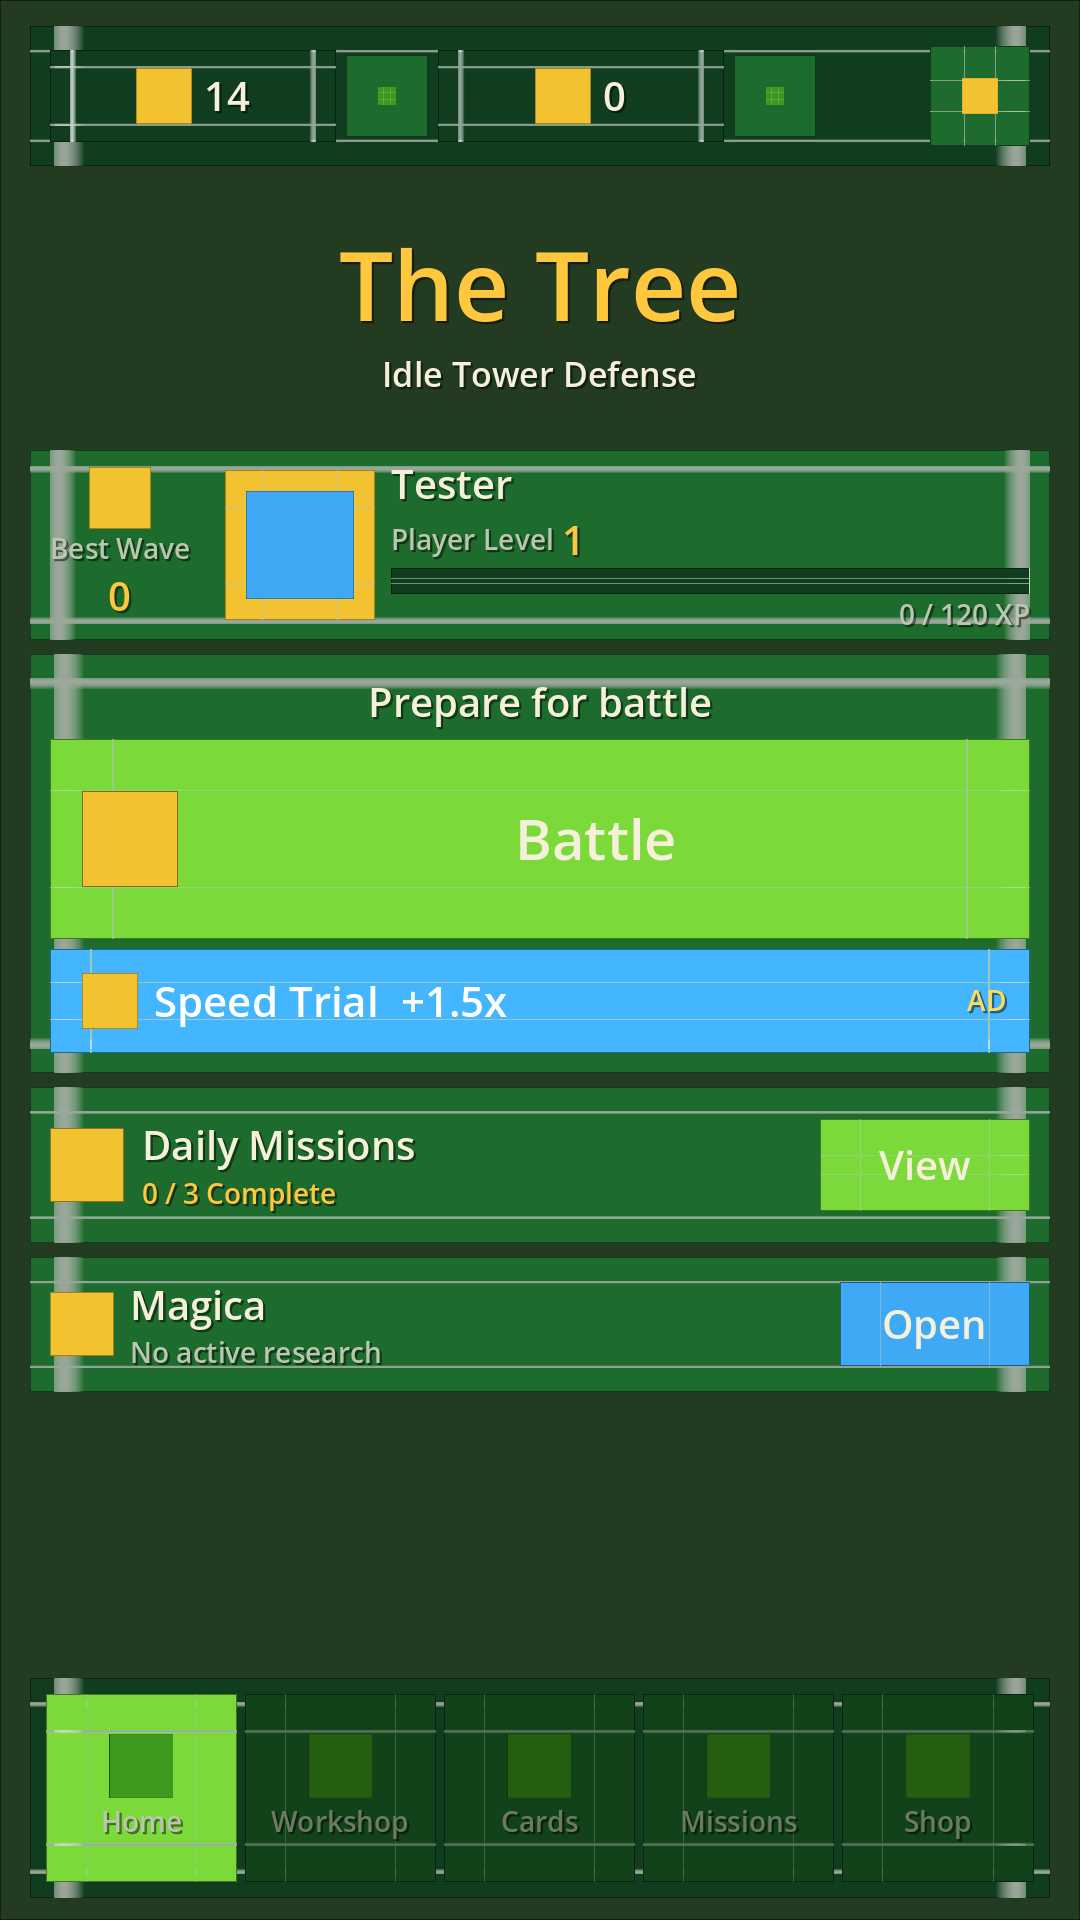
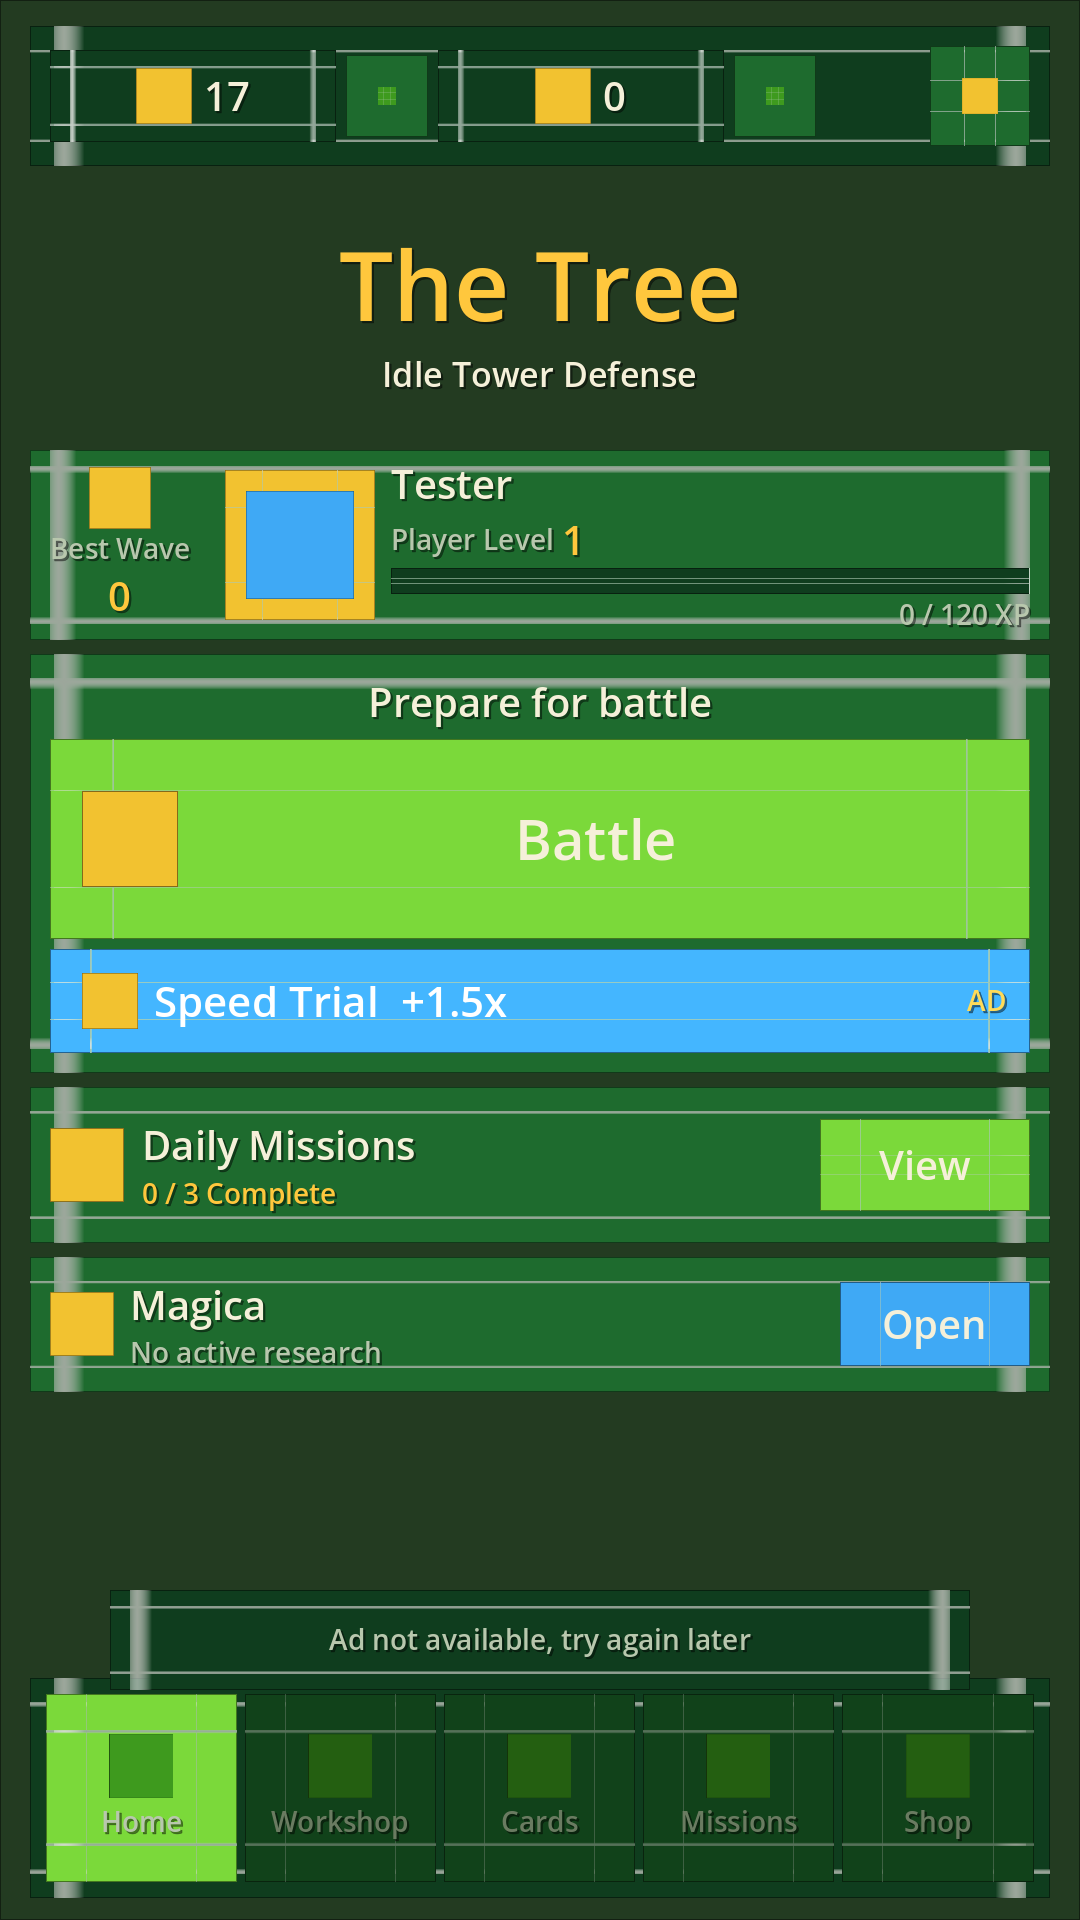
fix(m6): harden Android back and record the M6 verification

diff --git a/docs/PROGRESS.md b/docs/PROGRESS.md
@@ -2,14 +2,15 @@
 
 Single source of truth for "where are we". Updated at the end of every session.
 
-**Spec:** 1.0 (`docs/AI_BUILD_PROMPT.md`) · **Milestone:** M5 done → M6 next
+**Spec:** 1.0 (`docs/AI_BUILD_PROMPT.md`) · **Milestone:** M6 done (tagged) → M7 next
 **Branch:** `main` · **Godot:** `C:\Tools\godot-4.7.2\Godot_v4.7.2-stable_win64.exe` (4.7.2)
-**Verification (M5b, green):** check_project exit 0 · tests **51/51** ·
-smoke **25/25 scenes** (exit 0, no ERROR lines) · battle_smoke PASS ·
-lint_locale **607 keys, 0 missing, 0 unused** · previews `m5b_menu_en.png`,
-`m5b_menu_uk.png`, `m5b_menu_pseudo.png`, `m5b_shop.png`,
-`m5b_leaderboard.png`, `m5b_profile.png`
-**Toolchain gaps (M6):** Android SDK/adb; LDPlayer `E:\LDPlayer\LDPlayer14`; SDK `C:\Android\Sdk`
+**Verification (M6, green except device ad fill):** check_project exit 0 · tests
+**60/60** · smoke **25/25 scenes** · battle_smoke PASS · ads_flow_smoke PASS ·
+lint_locale **640 keys, 0 missing, 0 unused** · debug APK **179 MB**, installed
+and launched on LDPlayer · previews `m6_device.png`, `m6_shop_device.png`,
+`m6_ads_failure.png`
+**Toolchain:** Android SDK `C:\Android\Sdk`, JDK 17 `C:\Tools\jdk-17`, LDPlayer
+`E:\LDPlayer\LDPlayer14`, adb `127.0.0.1:5555` (see `docs/ANDROID.md`)
 
 ## Milestones
 
@@ -21,7 +22,7 @@ lint_locale **607 keys, 0 missing, 0 unused** · previews `m5b_menu_en.png`,
 | M3 | Run economy, upgrades, speed | done (M3.1 balance pass) | `v0.4.1-m3` |
 | M4 | Meta progression and persistence | done | `v0.5.0-m4` |
 | M5 | Shell, UX, localization, audio | done | `v0.6.0-m5` |
-| M6 | Android, ads, billing, telemetry | not started | `v0.7.0-m6` |
+| M6 | Android, ads, billing, telemetry | done, tagged (ad fill blocked by env network) | `v0.7.0-m6` |
 | M7 | Backend (FastAPI + Neon), live features | not started | `v0.8.0-m7` |
 | M8 | Balance, polish, release readiness | not started | `v1.0.0-m8` |
 
@@ -101,6 +102,52 @@ lint_locale **607 keys, 0 missing, 0 unused** · previews `m5b_menu_en.png`,
   `m5b_menu_pseudo.png`, `m5b_shop.png`, `m5b_leaderboard.png`,
   `m5b_profile.png`.
 
+## M6 delivered (tagged `v0.7.0-m6`)
+
+- **Android export**: `export_presets.cfg` debug preset `Android` (package
+  `com.endertainment.thetree`, portrait + immersive, min SDK 24, target 35,
+  x86_64 + arm64, `use_gradle_build=true`). `tools/export_android.ps1` sets
+  `JAVA_HOME`/`ANDROID_HOME`, generates the gitignored debug keystore, installs
+  the Android build template and produces `build/the-tree.apk` (**~179 MB**
+  debug). `tools/install_ldplayer.ps1` connects adb, installs, launches and
+  optionally screenshots. `docs/ANDROID.md` documents the exact commands.
+- **Ads**: Poing Studios AdMob **5.1.0** + `android-template-v4.7.2` (verified on
+  Godot 4.7.2; `[AdsService] GMA initialized (plugin v5.1.0, platform 1.4.0)` on
+  device). `AndroidAdsAdapter` handles async GMA init, UMP consent, rewarded and
+  interstitial loads; the desktop stub plays a visible `DebugAdOverlay`.
+  `AdsService` implements all §7.2 placements, per-run/day caps, the
+  every-3rd-run/120 s/wave-5 interstitial rule, one-reward-per-view
+  (`AdRewardGuard`), consent gate, failure reasons, `No Ads` interstitial
+  disablement, and persisted caps in the save's `ads` section. Speed Trial now
+  grants a real 24 h boost (or the next locked speed); the battle pause menu has
+  Free Cash and Tree Blessing offers; Magica has the 30-minute research speed-up.
+- **IAP**: godot-google-play-billing **3.3.0**; seven §7.3 products moved to
+  `config/shop.tres`; `IapService` handles store prices, purchase/restore,
+  pending/cancelled/already-owned/network reasons, purchase-token idempotency,
+  consume/acknowledge and `RewardBundle` grants. Shop buttons enable only when
+  `is_available()`; otherwise "Store unavailable". `_verify_receipt()` is the
+  documented M7 hook.
+- **Consent + telemetry**: `SettingsService.consent_granted` (false in release,
+  true in editor/debug) gates every ad; UMP is tried first and a local
+  `ConsentDialog` is the fallback. `AnalyticsService` emits the §8.6 events with
+  debug prints and optional batched HTTP (endpoint empty + disabled by default;
+  only the random player UUID is attached).
+- **Device polish**: safe-area margins via `SceneRouter`, haptics on boss
+  spawn/leaks/ad rewards, app pause/resume freezes the battle clock (Audio and
+  Save services keep their own hooks), Android back already routed through
+  `SceneRouter`, and `docs/RELEASE.md` + `docs/QA_CHECKLIST.md` added.
+- **Tests**: **+9 (60 total)** — ad caps + daily rollover, interstitial cadence,
+  reward-once guard, IAP catalogue resource, monetization config/test IDs,
+  billing reason mapping, speed-boost persistence, M6 locale keys, analytics
+  privacy sanitization. New `tools/ads_flow_smoke.gd` proves the real
+  AdsService→stub flow grants once, blocks the second daily request and fails
+  gracefully when the SDK is disabled.
+- **Previews**: `docs/preview/m6_device.png` (main menu on LDPlayer),
+  `m6_shop_device.png` (Store unavailable state), `m6_ads_failure.png`,
+  `m6_pause_ads.png` (battle pause with rewarded offers).
+- **Android back**: `config/quit_on_go_back=false` + a SceneRouter debounce;
+  verified Shop → menu, menu → exit, battle → pause, pause → battle on LDPlayer.
+
 ## Earlier milestones (summary)
 
 - **M4**: save v2 (checksum/atomic/.bak/migration), WalletService, Level/Unlock,
@@ -121,24 +168,35 @@ lint_locale **607 keys, 0 missing, 0 unused** · previews `m5b_menu_en.png`,
   stay authored (HUD numbers must not grow).
 - `battle_controller.gd`/`battle_hud.gd` still exceed the 400-line guideline.
 - 532 draw calls > M2 target 120 (placeholder art; atlas pass moved to M8).
-- **Monetization is stubbed (M6):** `IapService.is_available()` is false and all
-  buy buttons show "Store unavailable"; `AdsService.show_rewarded()` reports
-  `stub_not_implemented` and the Speed Trial shows the M6 toast. The shop's
-  debug-only simulate button grants through `RewardBundle` on debug builds only.
+- **Ads/Billing are wired but cannot complete a real transaction in this
+  environment:** Google ad hosts (`googleads.g.doubleclick.net`,
+  `pagead2.googlesyndication.com`) are unreachable from both the host and the
+  emulator, so test rewarded ads fail with `ERR_ADDRESS_UNREACHABLE` (handled as
+  `ad_unavailable`, no crash). Play Billing reports "In-app billing API version 3
+  is not supported on this device"; a real purchase needs a Play Console listing
+  and licence testers (M7/M8). All cap/one-reward/state logic is unit-tested and
+  the debug overlay flow is verified headlessly.
+- AdMob native AARs live in `addons/admob/android/bin`, which the addon's
+  `.gitignore` excludes; `docs/ANDROID.md` documents the pinned install step. The
+  Android build template (`android/`) is also gitignored.
+- Safe-area insets apply to every Control screen's `SafeArea` MarginContainer.
+  The battle HUD is a CanvasLayer without that container, so a notch-aware HUD
+  pass is deferred to M8 (no cutout on the LDPlayer test image).
 - **Leaderboard is local (M5b/M7):** `LeaderboardService` always serves the
   deterministic `LocalBackendStub` cohort and reports `is_offline() == true`.
   M7 replaces one `_load()` call with the HTTP client; the UI is unchanged.
 - Capture helper now finishes `App.init_services()` before applying the capture
   language/pseudo-locale and only stages the preview afterwards (ADR-033).
 
-## Next tasks — M6 (Android, ads, billing, telemetry)
+## Next tasks — M7 (Backend, live features)
 
-1. **Android toolchain + export**: install/verify SDK/adb, create the export
-   preset, build the first APK/AAB on LDPlayer, and wire the CI check
-   (`Android SDK/adb; LDPlayer E:\LDPlayer\LDPlayer14; SDK C:\Android\Sdk`).
-2. **AdsService adapter**: AdMob plugin pinned in `docs/DECISIONS.md`, rewarded
-   placements from §7.2 with caps, the debug ad overlay/countdown, consent flag,
-   and replace the Speed Trial stub with the real `speed_unlock_24h` flow.
-3. **IapService adapter**: Google Play Billing query/purchase/restore with
-   receipt validation hook, enable the shop buttons/prices, and handle pending,
-   cancelled, owned and network-error states end to end.
+1. **ApiClient + backend**: stand up the FastAPI + Neon skeleton from §8.3,
+   wire `ApiClient` (auth, retries, offline queue) and point
+   `LeaderboardService._load()` at it; keep `LocalBackendStub` for editor/offline.
+2. **Server-side commerce**: replace `IapService._verify_receipt()` with Google
+   Play receipt validation, add AdMob SSV callback validation for
+   `rewarded_earned` (server confirms a placement before the client grants), and
+   move `AnalyticsService` to the real `POST /events` endpoint.
+3. **Live-ops**: missions/tournament refresh from the backend, remote config for
+   `config/monetization.tres` ad IDs and caps, and an admin-less migration path
+   for save v3 if the profile gains server IDs.

diff --git a/docs/DECISIONS.md b/docs/DECISIONS.md
@@ -671,3 +671,97 @@ scene's `stage_preview()` only after the scene has been in the tree for 0.2 s.
 
 **Consequences:** captures reflect the requested locale and staged state. The
 helper remains tooling-only and never writes settings back to `user://`.
+
+## ADR-034 — AdMob plugin pinned to Poing Studios 5.1.0 (M6)
+
+**Status:** accepted (M6)
+
+**Context:** M6 needs real rewarded/interstitial ads on Android while the editor
+keeps a visible fake-ad flow. Candidates were the official plugin route
+(`poing-studios/godot-admob-plugin`) and hand-rolled JNI, which the brief forbids.
+
+**Decision:** install **Poing Studios AdMob 5.1.0** (`addons/admob`, MIT) with
+`android-template-v4.7.2.zip` native AARs and enable it in
+`[editor_plugins]`. The plugin targets Godot 4.5+ and ships a 4.7.2 template; it
+was verified with a headless import, a full Gradle APK export and a launch on
+LDPlayer (GMA initialized, rewarded preload reached). `AdsService` talks to
+`AndroidAdsAdapter`; `OS.has_feature("android")` appears only inside that adapter
+and its factory. The AARs live in `addons/admob/android/bin`, which the addon's
+own `.gitignore` excludes; `docs/ANDROID.md` documents the one-time install.
+
+**Consequences:** plugin swaps touch the adapter only. AdMob's Android manifest
+merge requires `gradle/use_gradle_build=true`, so M6 exports are Gradle builds.
+Without Play Services/network the SDK stays unavailable and rewarded requests
+fail with a toast instead of blocking boot. Production ad unit IDs are not in the
+repository — only Google's test IDs in `config/monetization.tres`.
+
+## ADR-035 — Play Billing 3.3.0 with a documented receipt hook (M6)
+
+**Status:** accepted (M6)
+
+**Context:** IAP must expose the §7.3 catalogue, handle pending/cancelled/
+already-owned states and degrade to "Store unavailable" on desktop and on a
+device without a Play listing.
+
+**Decision:** install **godot-google-play-billing 3.3.0** (`addons/
+GodotGooglePlayBilling`, MIT), enabled as an editor plugin. `IapService` owns the
+product catalogue (`config/shop.tres`), purchase-token idempotency, ownership and
+`RewardBundle` grants; `AndroidBillingAdapter` only translates BillingClient
+signals. `_verify_receipt()` is an explicit no-op hook: **M7 must replace it with
+server-side Google Play receipt validation** before production. Billing is never
+initialized during boot; a missing Play Store leaves the shop in its disabled
+state.
+
+**Consequences:** local debug builds cannot complete a purchase (Play requires an
+uploaded listing), which is documented in `PROGRESS.md`; the debug simulate
+button still exercises the same grant path. A plugin swap is one adapter file.
+
+## ADR-036 — GL compatibility override on Android (M6)
+
+**Status:** accepted (M6)
+
+**Context:** the LDPlayer image's Vulkan driver fails to present
+(`VkResult error 5`), producing a black screen even though the game booted. The
+project otherwise uses the Mobile (Vulkan) renderer.
+
+**Decision:** set `rendering/renderer/rendering_method.mobile="gl_compatibility"`.
+2D content is fully supported by the Compatibility renderer and it is the safest
+choice for emulators/older devices. The desktop renderer is unchanged.
+
+**Consequences:** real devices use GLES3 instead of Vulkan; the override can be
+removed when the M8 device matrix confirms Vulkan stability. Frame-rate targets
+still hold for the M6 scene load.
+
+## ADR-037 — Consent and analytics are local-first (M6)
+
+**Status:** accepted (M6)
+
+**Context:** UMP must gate the first ad, but the editor needs deterministic flows
+and analytics must not leak personal data or stall boot.
+
+**Decision:** `SettingsService.consent_granted` defaults to
+`OS.is_debug_build()` (true in editor/debug, false in release). `AdsService`
+tries UMP first and falls back to a local `ConsentDialog` when the SDK is
+unavailable; no ad request is made before consent. `AnalyticsService` prints in
+debug builds and only batches to HTTP when `config/monetization.tres` provides an
+endpoint; events are dropped on failure (no unbounded queue) and only the random
+player UUID is attached.
+
+**Consequences:** release builds start with ads blocked until the consent step is
+answered. M7 can point analytics at the backend by editing one config field.
+
+## ADR-038 — Placement caps are a pure, tested policy object (M6)
+
+**Status:** accepted (M6)
+
+**Context:** per-run/day caps, the every-3rd-run interstitial and one-reward-only
+behaviour are the easiest monetization rules to get wrong, and they must be
+tested headlessly without an ad SDK.
+
+**Decision:** `AdCaps` owns period accounting and interstitial cadence,
+`AdRewardGuard` owns one-reward-per-view, and both are plain `RefCounted`
+classes. `AdsService` persists `AdCaps.to_dict()` in the save's `ads` section and
+delegates every decision to these objects.
+
+**Consequences:** `tests/run_tests.gd` covers caps, rollover, cadence, duplicate
+earned callbacks and the ad-limit reason without touching native code.

diff --git a/CHANGELOG.md b/CHANGELOG.md
@@ -3,6 +3,57 @@
 All notable changes are recorded per milestone. The project follows semantic
 versioning for tags; unreleased work stays under `[Unreleased]`.
 
+## [0.7.0-m6] — 2026-10-31 — M6 Android, ads, billing, telemetry
+
+### Added
+
+- **Android export**: `export_presets.cfg` (debug preset `Android`, package
+  `com.endertainment.thetree`, portrait/immersive, min SDK 24, target 35,
+  x86_64 + arm64), `tools/export_android.ps1` (JDK 17 + SDK env, generated debug
+  keystore, build-template install, Gradle export to `build/the-tree.apk`) and
+  `tools/install_ldplayer.ps1` (adb connect/install/launch/screenshot).
+  `docs/ANDROID.md` lists the verified toolchain and exact commands.
+- **Ads**: Poing Studios AdMob **5.1.0** (`addons/admob`, verified on Godot
+  4.7.2), `AndroidAdsAdapter` with GMA initialization, UMP consent, rewarded and
+  interstitial loads, plus a desktop `DebugAdOverlay` fake ad. `AdsService` owns
+  placements from §7.2 (`run_double_coins`, `free_cash`, `tree_blessing`,
+  `speed_unlock_24h`, `research_speedup`, `run_end_interstitial`), per-run/day
+  caps, the every-3rd-run/120 s/wave-5 interstitial rule, one reward per view,
+  the consent gate, failure reasons and the "No Ads disables interstitials" rule.
+  Speed Trial now grants a real 24 h 1.5x boost (or the next locked speed), and
+  the battle pause menu offers Free Cash and Tree Blessing.
+- **IAP**: godot-google-play-billing **3.3.0** (`addons/GodotGooglePlayBilling`),
+  `IapService` with the seven §7.3 products in `config/shop.tres`, store prices,
+  purchase/restore/pending/cancelled/already-owned states, purchase-token
+  idempotency, `RewardBundle` grants, consume/acknowledge and a documented M7
+  receipt-verification hook. Shop buttons enable only when `is_available()`.
+- **Telemetry**: `AnalyticsService` with the §8.6 events (`app_open`, `run_start`,
+  `wave_cleared`, `run_end`, `purchase`, `ad_shown`, `ad_rewarded`, `screen_view`,
+  `error`), debug prints and optional batched HTTP disabled by default.
+- **Device polish**: safe-area insets applied by `SceneRouter`, haptics on boss
+  spawn/leaks/ad rewards respecting the settings toggle, app pause/resume
+  freezing the battle clock while audio and save services handle their own hooks,
+  and `docs/RELEASE.md` + `docs/QA_CHECKLIST.md` skeletons.
+- **Tests**: **+9 (60 total)** — ad placement caps and daily rollover,
+  interstitial cadence, reward-once guard, IAP catalogue resource, monetization
+  config (test IDs/caps), billing reason mapping, speed-boost persistence,
+  M6 locale keys, analytics privacy sanitization.
+
+### Changed
+
+- `SettingsService` gained persisted `consent_granted` (false in release, true in
+  editor/debug) and a debug `fake_monetization` switch.
+- Android uses the Compatibility (GLES3) renderer (`rendering_method.mobile`).
+- `locale_lint.gd` treats `shop.purchase_*` as runtime-assembled keys.
+
+### Fixed
+
+- AdMob rewarded loads now wait for the asynchronous GMA initialization callback
+  (loading earlier crashed the native SDK).
+- Android back no longer quits while leaving Shop/entering battle: `Quit On Go
+  Back` is disabled and `SceneRouter` debounces the notification/key pair; it
+  only quits from the main menu and opens the battle pause menu otherwise.
+
 ## [0.6.0-m5] — 2026-10-31 — M5 shell, UX, localization, audio
 
 ### Added

diff --git a/docs/QA_CHECKLIST.md b/docs/QA_CHECKLIST.md
@@ -12,11 +12,13 @@ Device: LDPlayer 14 (1080×1920 @ 480 dpi), package
 
 - [x] Cold start reaches the main menu on LDPlayer (GLES3 renderer).
 - [x] No `FATAL EXCEPTION` in `adb logcat` during boot.
-- [ ] Cold start ≤ 5 s (measured: ___ s; M6 build is a 178 MB debug APK).
+- [ ] Cold start ≤ 5 s (measured: ___ s; M6 build is a 179 MB debug APK).
 - [x] App background/foreground during battle: simulation freezes/resumes,
       music pauses/resumes (AudioService + BattleClock).
-- [ ] Back button: closes modals first, then opens pause; never exits a run
-      without the abandon confirmation.
+- [x] Back button: Shop → main menu, main menu → exits, battle → pause,
+      pause → battle (verified on LDPlayer; `Quit On Go Back` disabled so the
+      native back no longer kills the activity before `SceneRouter` runs).
+- [ ] 60 FPS on LDPlayer during a wave (not measured; no FPS overlay on device).
 - [x] Safe-area inset applied by `SceneRouter` (no jump between scenes).
 
 ### Ads

diff --git a/docs/ANDROID.md b/docs/ANDROID.md
@@ -76,6 +76,17 @@ godot --headless --path . --export-debug "Android" build/the-tree.apk
 Billing) require a Gradle build. The first build downloads Gradle + Maven
 dependencies; expect several minutes.
 
+### Monetization IDs
+
+- Ad *unit* IDs: `config/monetization.tres` (committed values are Google test
+  IDs). A local `user://monetization_override.tres` wins at runtime; CI/release
+  replaces the resource with production IDs.
+- AdMob *app ID*: Project Settings → `admob/general/android/app_id` (default is
+  Google's test app ID `ca-app-pub-3940256099942544~3347511713`). A production
+  build must set it to the AdMob app ID before export.
+- Product IDs are the §7.3 `thetree.*` ids in `config/shop.tres`; they must match
+  the Play Console entries exactly.
+
 ## Install / launch / screenshot
 
 ```powershell
